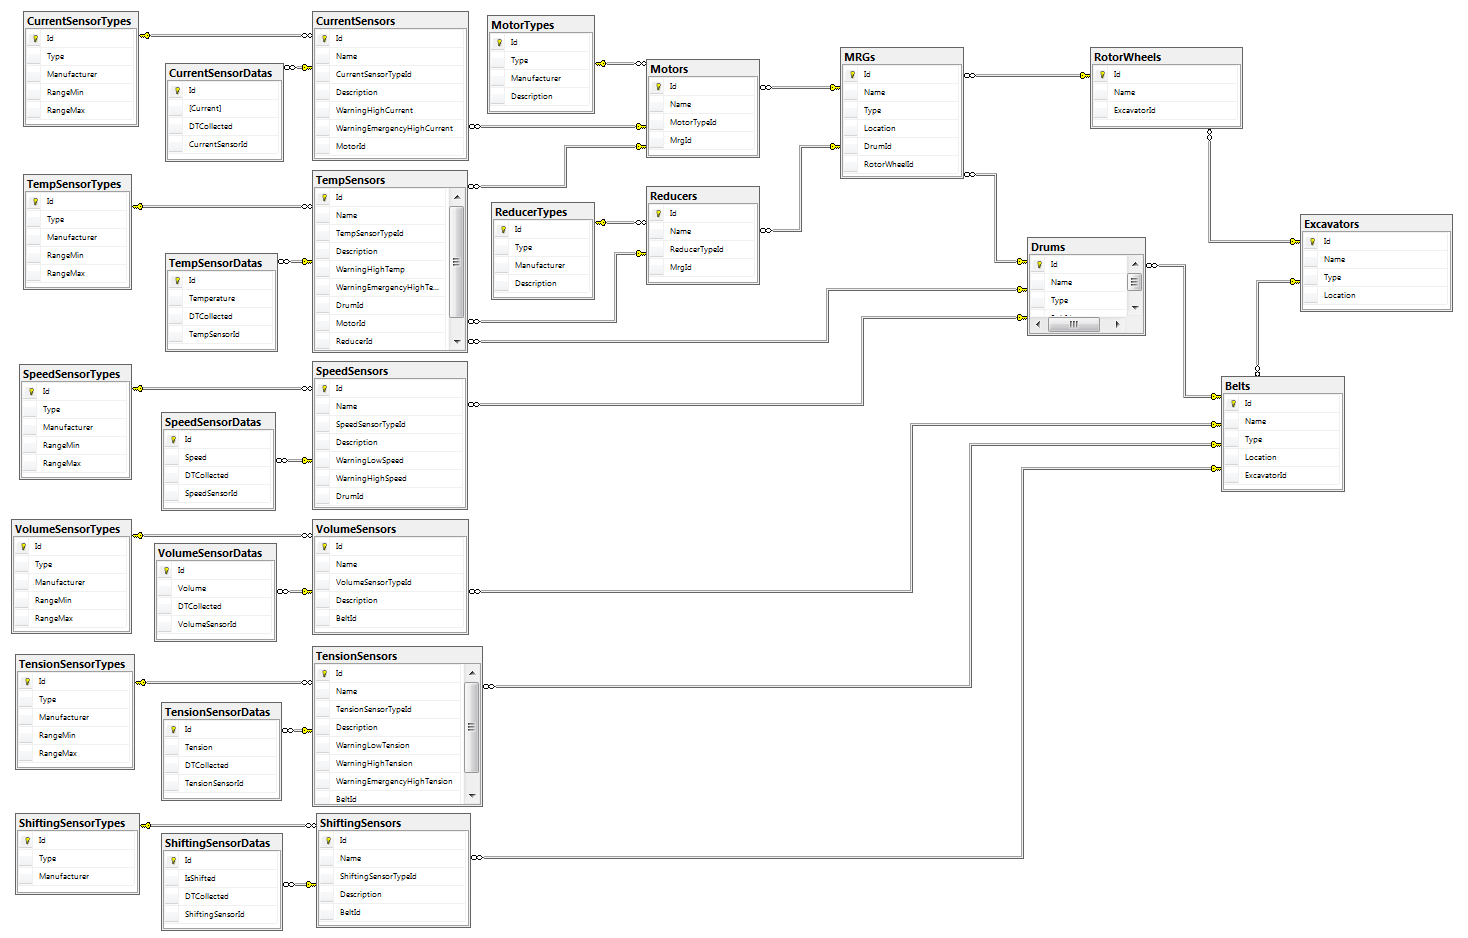
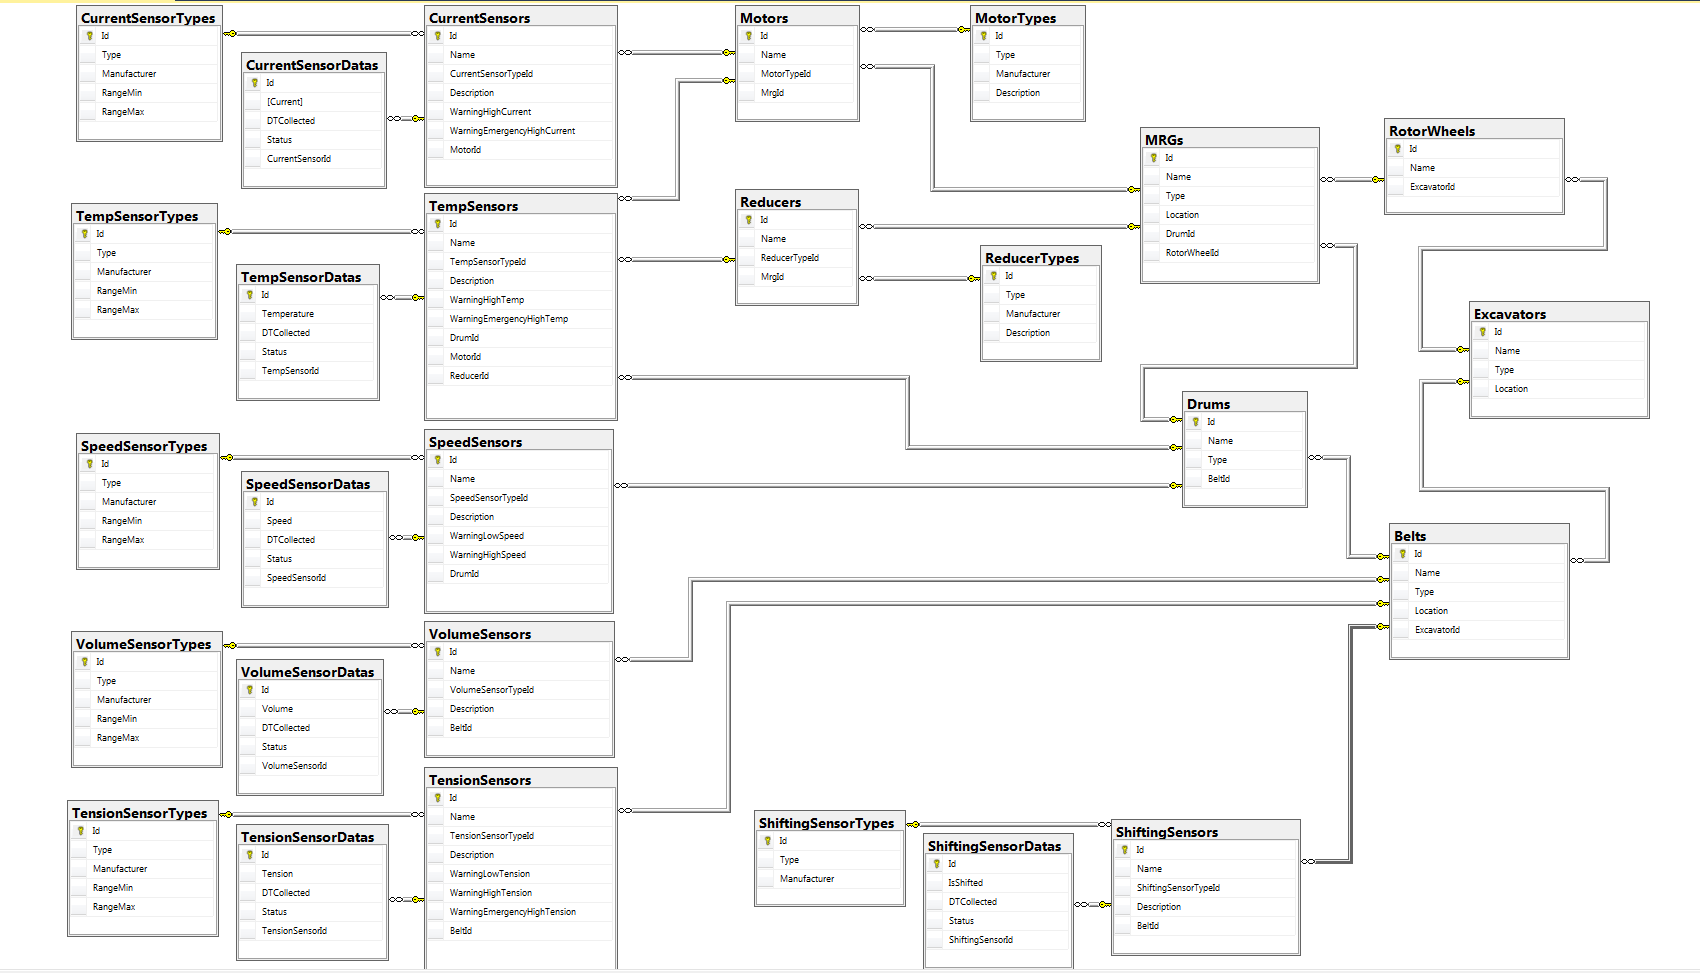
Added Status word in models "....Data"

Changed region(s): [[0.0, 0.0, 1.0, 1.0], [0.3985, 0.7111, 0.4598, 0.742], [0.9503, 0.4019, 0.9809, 0.4328]]

diff --git a/Excavators.Models/TensionSensorData.cs b/Excavators.Models/TensionSensorData.cs
@@ -5,12 +5,25 @@
 
     public class TensionSensorData
     {
+        public TensionSensorData()
+        {
+            DTCollected = DateTime.Now;
+        }
         [Key]
         public int Id { get; set; }
 
         public float Tension { get; set; }
 
         public DateTime DTCollected { get; set; }
+
+        public int Status { get; set; }
+        // 0 -> means nothing
+        // 1 => checked succesfully, OK
+        // 2 => Low Tension (compared with TensionSensor.WarningLowTension)
+        // 8 => High Tension (compared with TensionSensor.WarningHighTension)
+        // 16 => Emergency High Tension (compared with TensionSensor.WarningEmergencyHighTension)
+        // 64 => Sensor Failed (compared with TensionSensorType.RangeMin and TensionSensorType.RangeMax)
+
 
         public int TensionSensorId { get; set; }
         public TensionSensor TensionSensor { get; set; }

diff --git a/Excavators.Models/SpeedSensorData.cs b/Excavators.Models/SpeedSensorData.cs
@@ -5,12 +5,25 @@
 
     public class SpeedSensorData
     {
+        public SpeedSensorData()
+        {
+            DTCollected = DateTime.Now;
+        }
+
         [Key]
         public int Id { get; set; }
 
         public float Speed { get; set; }    // in meters/sec
 
         public DateTime DTCollected { get; set; }
+
+        public int Status { get; set; }
+        // 0 -> means nothing
+        // 1 => checked succesfully, OK
+        // 2 => Low Speed (compared with SpeedSensor.WarningLowSpeed)
+        // 8 => High Speed (compared with SpeedSensor.WarningHighSpeed)
+        // 32 => Slip (difference more then 10%)
+        // 64 => Sensor Failed (compared with SpeedSensorType.RangeMin and SpeedSensorType.RangeMax)
 
         public int SpeedSensorId { get; set; }
         public SpeedSensor SpeedSensor { get; set; }

diff --git a/Excavators.Models/CurrentSensorData.cs b/Excavators.Models/CurrentSensorData.cs
@@ -5,12 +5,24 @@
 
     public class CurrentSensorData
     {
+        public CurrentSensorData()
+        {
+            DTCollected = DateTime.Now;
+        }
+
         [Key]
         public int Id { get; set; }
 
         public float Current { get; set; }
 
         public DateTime DTCollected { get; set; }
+
+        public int Status { get; set; }
+        // 0 -> means nothing
+        // 1 => checked succesfully, OK
+        // 8 => High Current (compared with CurrentSensor.WarningHighCurret)
+        // 16 => Emergency High Current (compared with CurrentSensor.WarningEmergencyHighCurret)
+        // 64 => Sensor Failed (compared with CurrentSensorType.RangeMin and CurrentSensorType.RangeMax)
 
         public int CurrentSensorId { get; set; }
         public CurrentSensor CurrentSensor { get; set; }

diff --git a/Excavators.Models/TempSensorData.cs b/Excavators.Models/TempSensorData.cs
@@ -5,12 +5,25 @@
 
     public class TempSensorData
     {
+        public TempSensorData()
+        {
+            DTCollected = DateTime.Now;
+        }
+
         [Key]
         public int Id { get; set; }
 
         public float Temperature { get; set; }
 
         public DateTime DTCollected { get; set; }
+
+        public int Status { get; set; }
+        // 0 -> means nothing
+        // 1 => checked succesfully, OK
+        // 8 => High Temperature (compared with TempSensor.WarningHighTemp)
+        // 16 => Emergency High Temperature (compared with TempSensor.WarningEmergencyHighTemp)
+        // 64 => Sensor Failed (compared with TempSensorType.RangeMin and TempSensorType.RangeMax)
+
 
         public int TempSensorId { get; set; }
         public TempSensor TempSensor { get; set; }

diff --git a/Excavators.Models/VolumeSensorData.cs b/Excavators.Models/VolumeSensorData.cs
@@ -5,12 +5,22 @@
 
     public class VolumeSensorData
     {
+        public VolumeSensorData()
+        {
+            DTCollected = DateTime.Now;
+        }
+
         [Key]
         public int Id { get; set; }
 
         public float Volume { get; set; }   // Volume = m3/s
 
         public DateTime DTCollected { get; set; }
+
+        public int Status { get; set; }
+        // 0 -> means nothing
+        // 1 => checked succesfully, OK
+        // 64 => Sensor Failed (compared with VolumeSensorType.RangeMin and VolumeSensorType.RangeMax)
 
         public int VolumeSensorId { get; set; }
         public VolumeSensor VolumeSensor { get; set; }

diff --git a/Excavators.Models/ShiftingSensorData.cs b/Excavators.Models/ShiftingSensorData.cs
@@ -5,12 +5,22 @@
 
     public class ShiftingSensorData
     {
+        public ShiftingSensorData()
+        {
+            DTCollected = DateTime.Now;
+        }
         [Key]
         public int Id { get; set; }
 
-        public bool IsShifted { get; set; }
+        public bool? IsShifted { get; set; }
 
         public DateTime DTCollected { get; set; }
+
+        public int Status { get; set; }
+        // 0 -> means nothing
+        // 1 => checked succesfully, OK
+        // 64 => Sensor Failed (if it's null)
+
 
         public int ShiftingSensorId { get; set; }
         public ShiftingSensor ShiftingSensor { get; set; }

diff --git a/Excavators.Data/ExcavatorsContext.cs b/Excavators.Data/ExcavatorsContext.cs
@@ -10,7 +10,7 @@ namespace Excavators.Data
         public ExcavatorsContext()
             : base("name=ExcavatorsContext")
         {
-            Database.SetInitializer(new DropCreateDatabaseAlways<ExcavatorsContext>());
+            Database.SetInitializer(new DropCreateDatabaseAlways<ExcavatorsContext>());;
         }
 
         protected override void OnModelCreating(DbModelBuilder modelBuilder)
